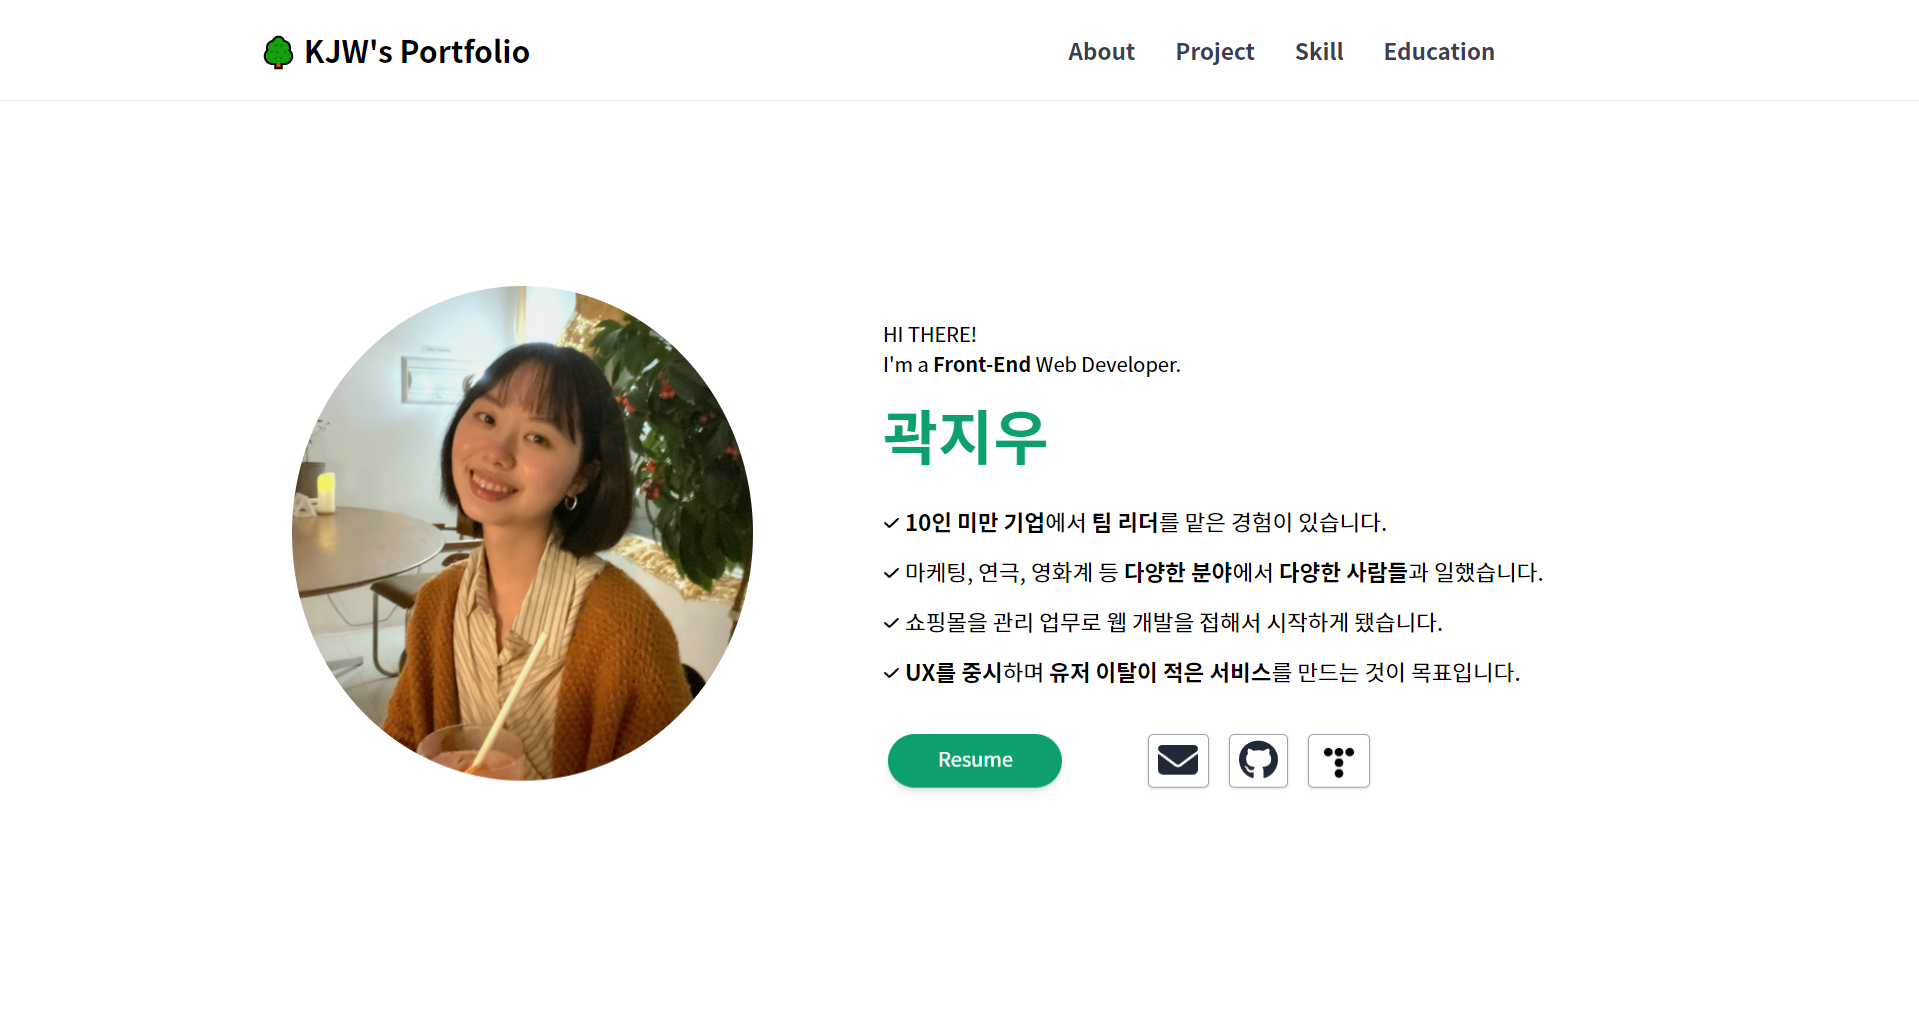
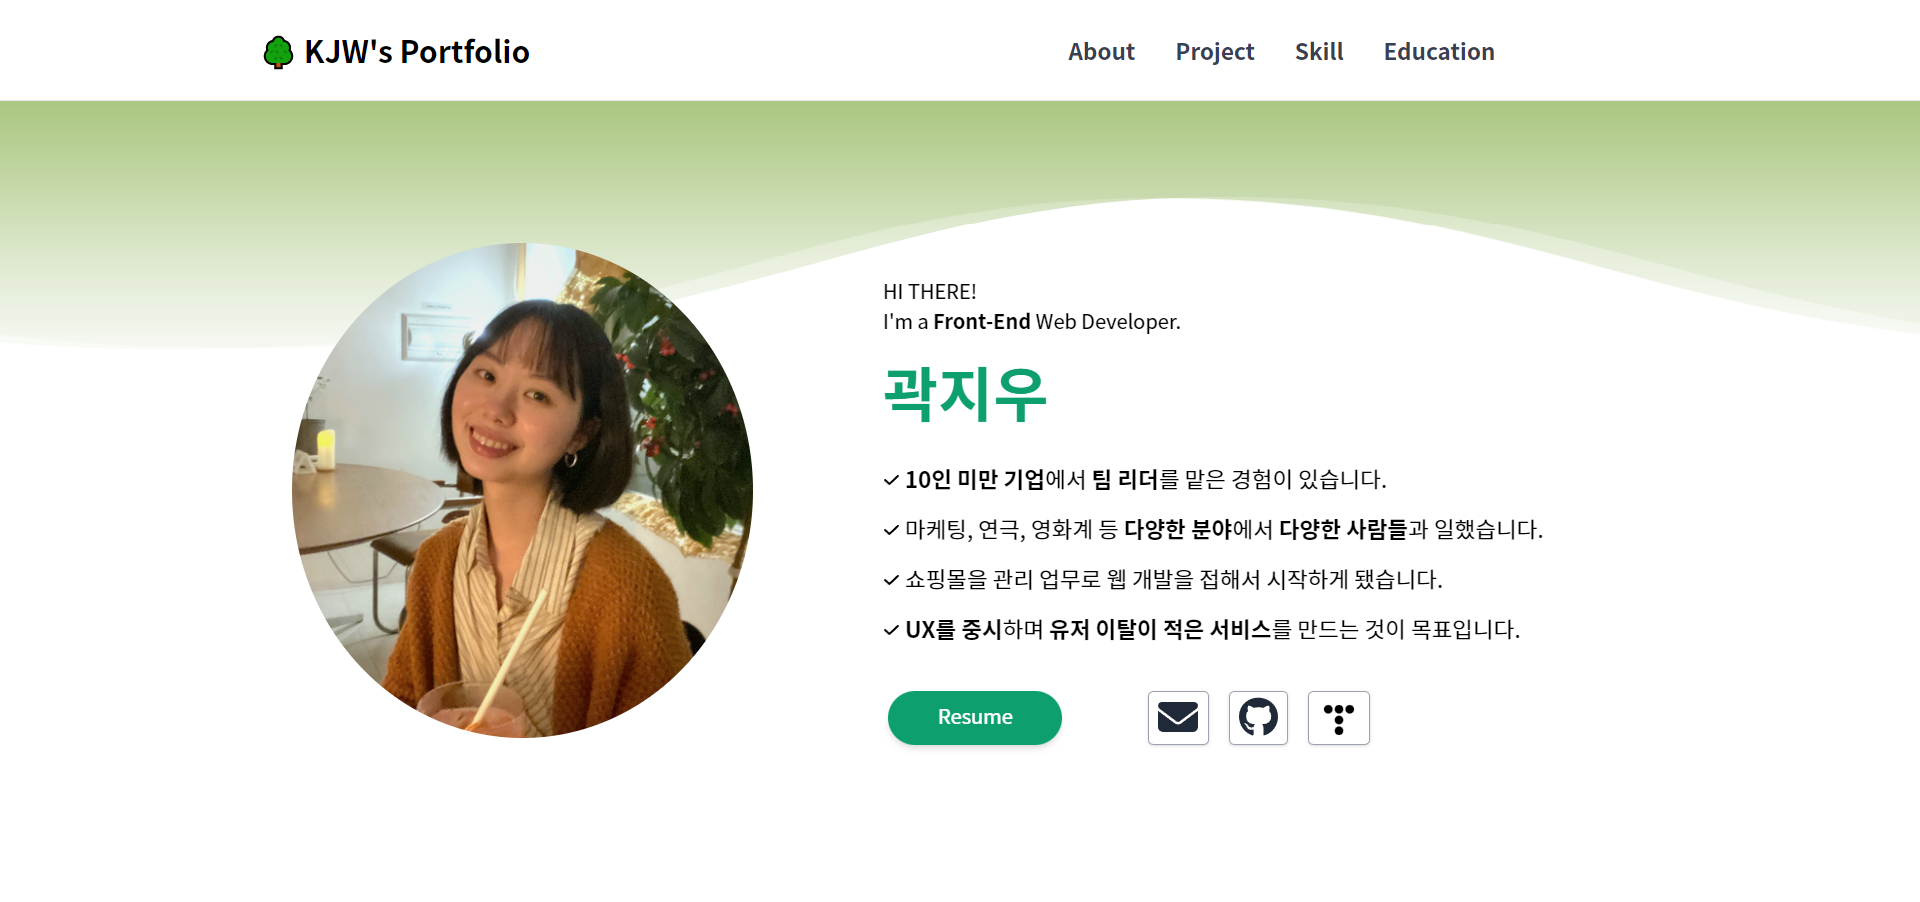
[feat] Wave 구현

diff --git a/styles/globals.css b/styles/globals.css
@@ -25,3 +25,43 @@ body {
   display: flex !important;
   align-items: center;
 }
+
+/* modal 안 마크다운 넣기 위해 tailwind 스타일 없애기 */
+.prose {
+  max-width: 100% !important;
+}
+
+/* About 배경 웨이브 */
+.wave01 {
+  background: url(../public/wave.svg) repeat-x;
+  position: absolute;
+  width: 3200px;
+  height: 100%;
+  animation: wave01 8s cubic-bezier(0.36, 0.45, 0.63, 0.53) infinite;
+}
+
+.wave01:nth-of-type(2) {
+  animation: wave01 8s cubic-bezier(0.36, 0.45, 0.63, 0.6) -0.125s infinite,
+    swell 5s ease -1.25s infinite;
+}
+
+@keyframes wave01 {
+  0% {
+    margin-left: 0;
+  }
+  100% {
+    margin-left: -1600px;
+  }
+}
+
+@keyframes swell {
+  0% {
+    transform: translate3d(0, -15px, 0);
+  }
+  50% {
+    transform: translate3d(0, 5px, 0);
+  }
+  100% {
+    transform: translate3d(0, -15px, 0);
+  }
+}

diff --git a/src/component/About.tsx b/src/component/About.tsx
@@ -6,7 +6,7 @@ import { faEnvelope, faCheck } from "@fortawesome/free-solid-svg-icons";
 import tw from "tailwind-styled-components";
 
 const Container = tw.div`
-  flex flex-col md:flex-row justify-center items-center px-[10%] my-10 h-[90vh] box-border
+  flex flex-col md:flex-row justify-center items-center px-[10%] mt-20 md:mt-5 lg:mt-5 mb-10 h-[90vh] box-border
 `;
 const Img = tw.img`
   rounded-[50%] w-[50%] md:w-[40%] lg:w-[30%] mb-5 md:ml-20 lg:ml-20 md:mb-16 lg:mb-16

diff --git a/src/component/Wave.tsx b/src/component/Wave.tsx
@@ -1,0 +1,22 @@
+import tw from "tailwind-styled-components";
+
+const Container = tw.div`
+    absolute w-[100%] h-[200px] overflow-hidden z-[-1]
+`;
+
+const Wrapper = tw.div`
+    w-[100%] h-[100%]
+`;
+
+const Wave = () => {
+  return (
+    <Container>
+      <Wrapper>
+        <div className="wave01"></div>
+        <div className="wave01"></div>
+      </Wrapper>
+    </Container>
+  );
+};
+
+export default Wave;

diff --git a/src/component/Content.tsx b/src/component/Content.tsx
@@ -10,7 +10,8 @@ const Container = tw.div`
     flex
     flex-col
     mx-auto
-    mt-20
+    md:mt-20
+    lg:mt-20
 `;
 
 const Content: React.FC = () => {
